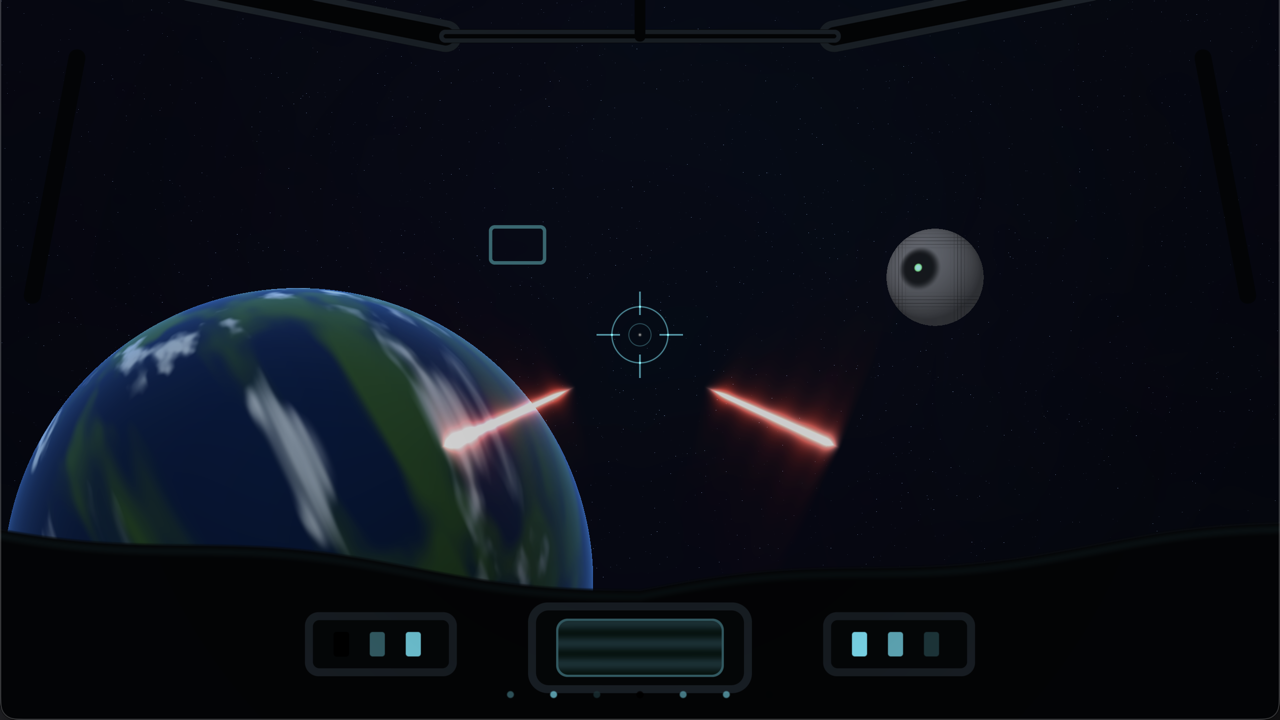
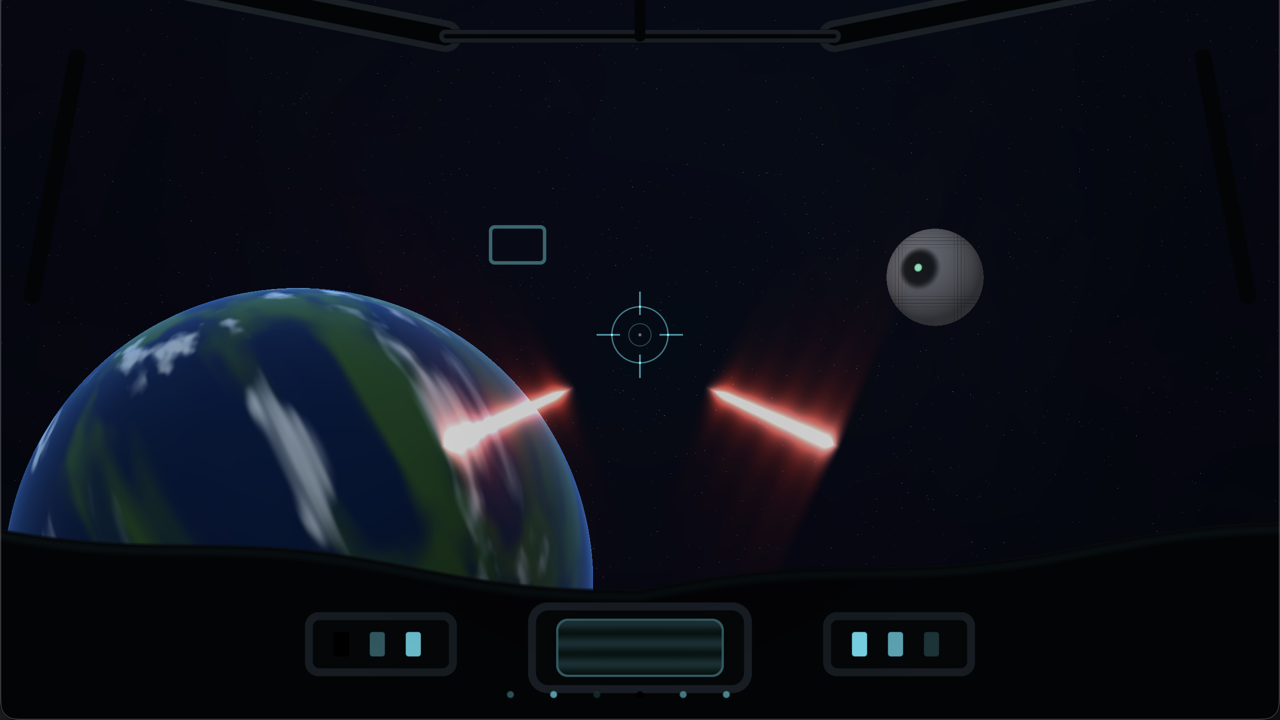
make X-Wing laser bolts fatter

Changed region(s): [[0.5312, 0.5194, 0.6875, 0.6722], [0.3125, 0.5194, 0.4688, 0.6722]]

diff --git a/Games/03-SpaceBattle/Prototypes/X-Wing Lasers/Sources/Demo/LaserDemo.cpp b/Games/03-SpaceBattle/Prototypes/X-Wing Lasers/Sources/Demo/LaserDemo.cpp
@@ -102,7 +102,7 @@ std::vector<cppgames::lasers::LaserBeam> LaserDemo::beams() const {
         beam.end[0] = x1;
         beam.end[1] = y1;
         beam.end[2] = -4.0f - bolt.travel - bolt.length;
-        beam.width = 0.10f;
+        beam.width = 0.18f;
         beam.color[0] = 1.0f;
         beam.color[1] = 0.13f;
         beam.color[2] = 0.035f;
